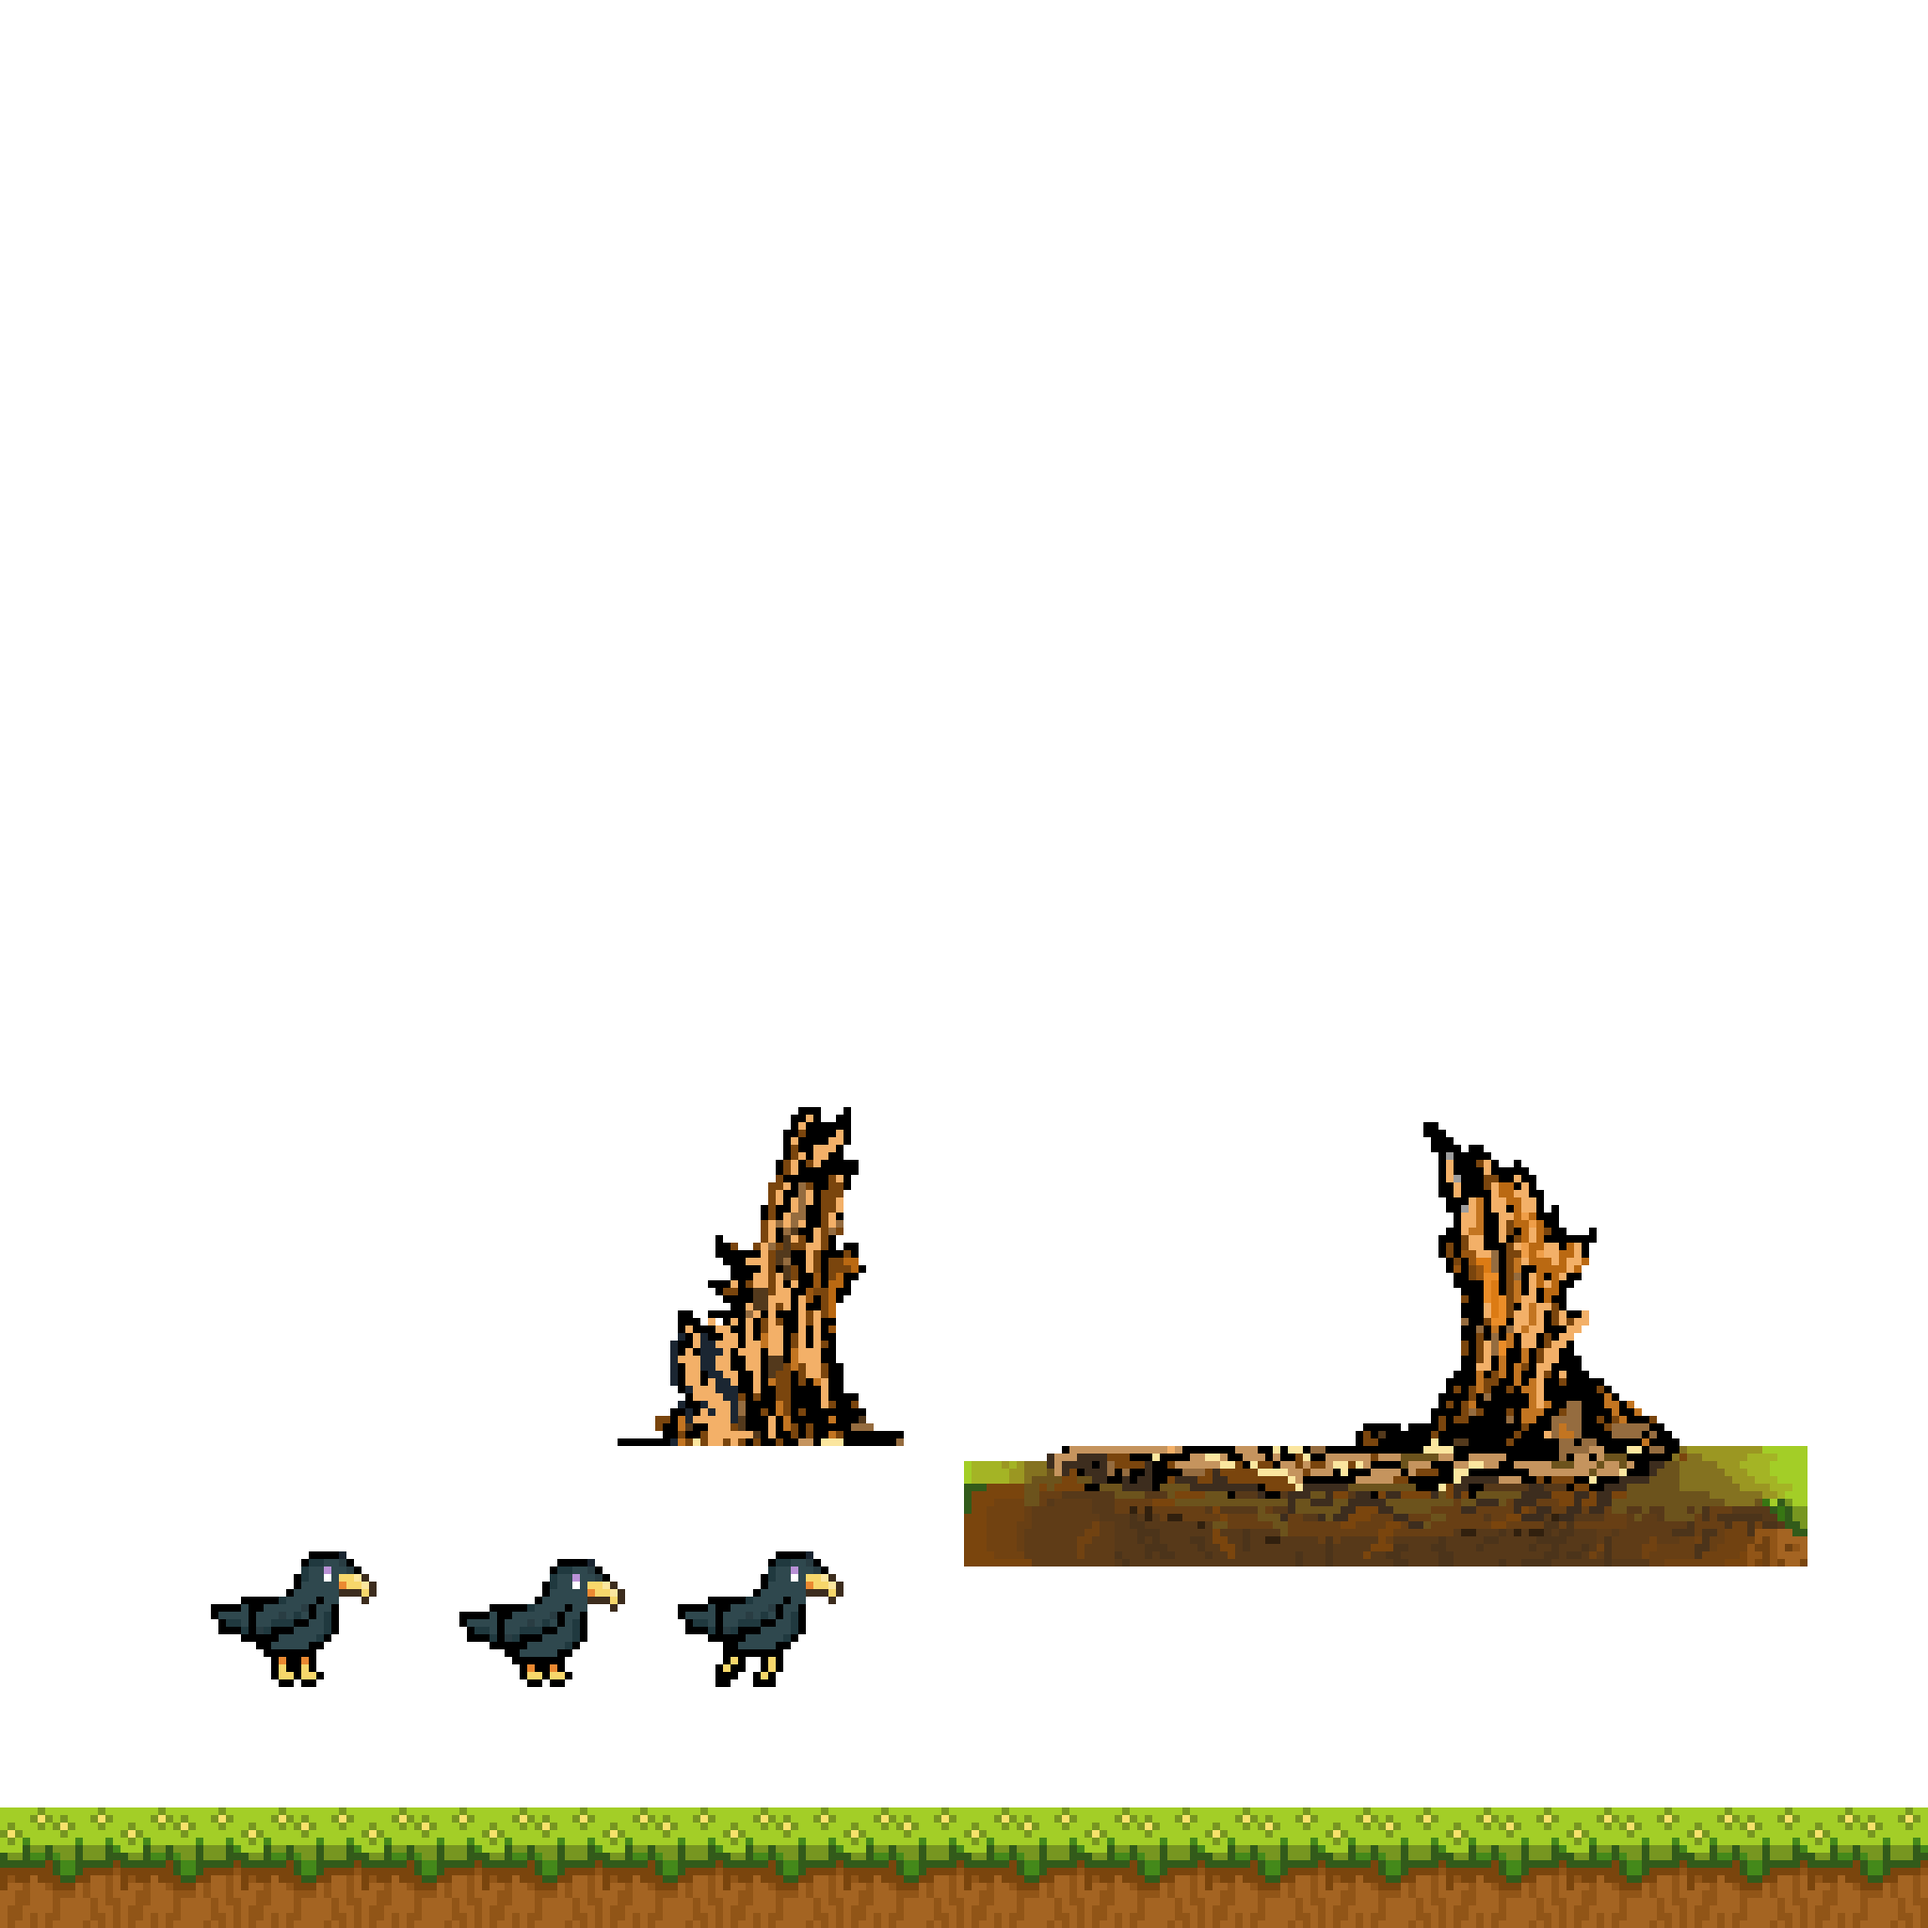
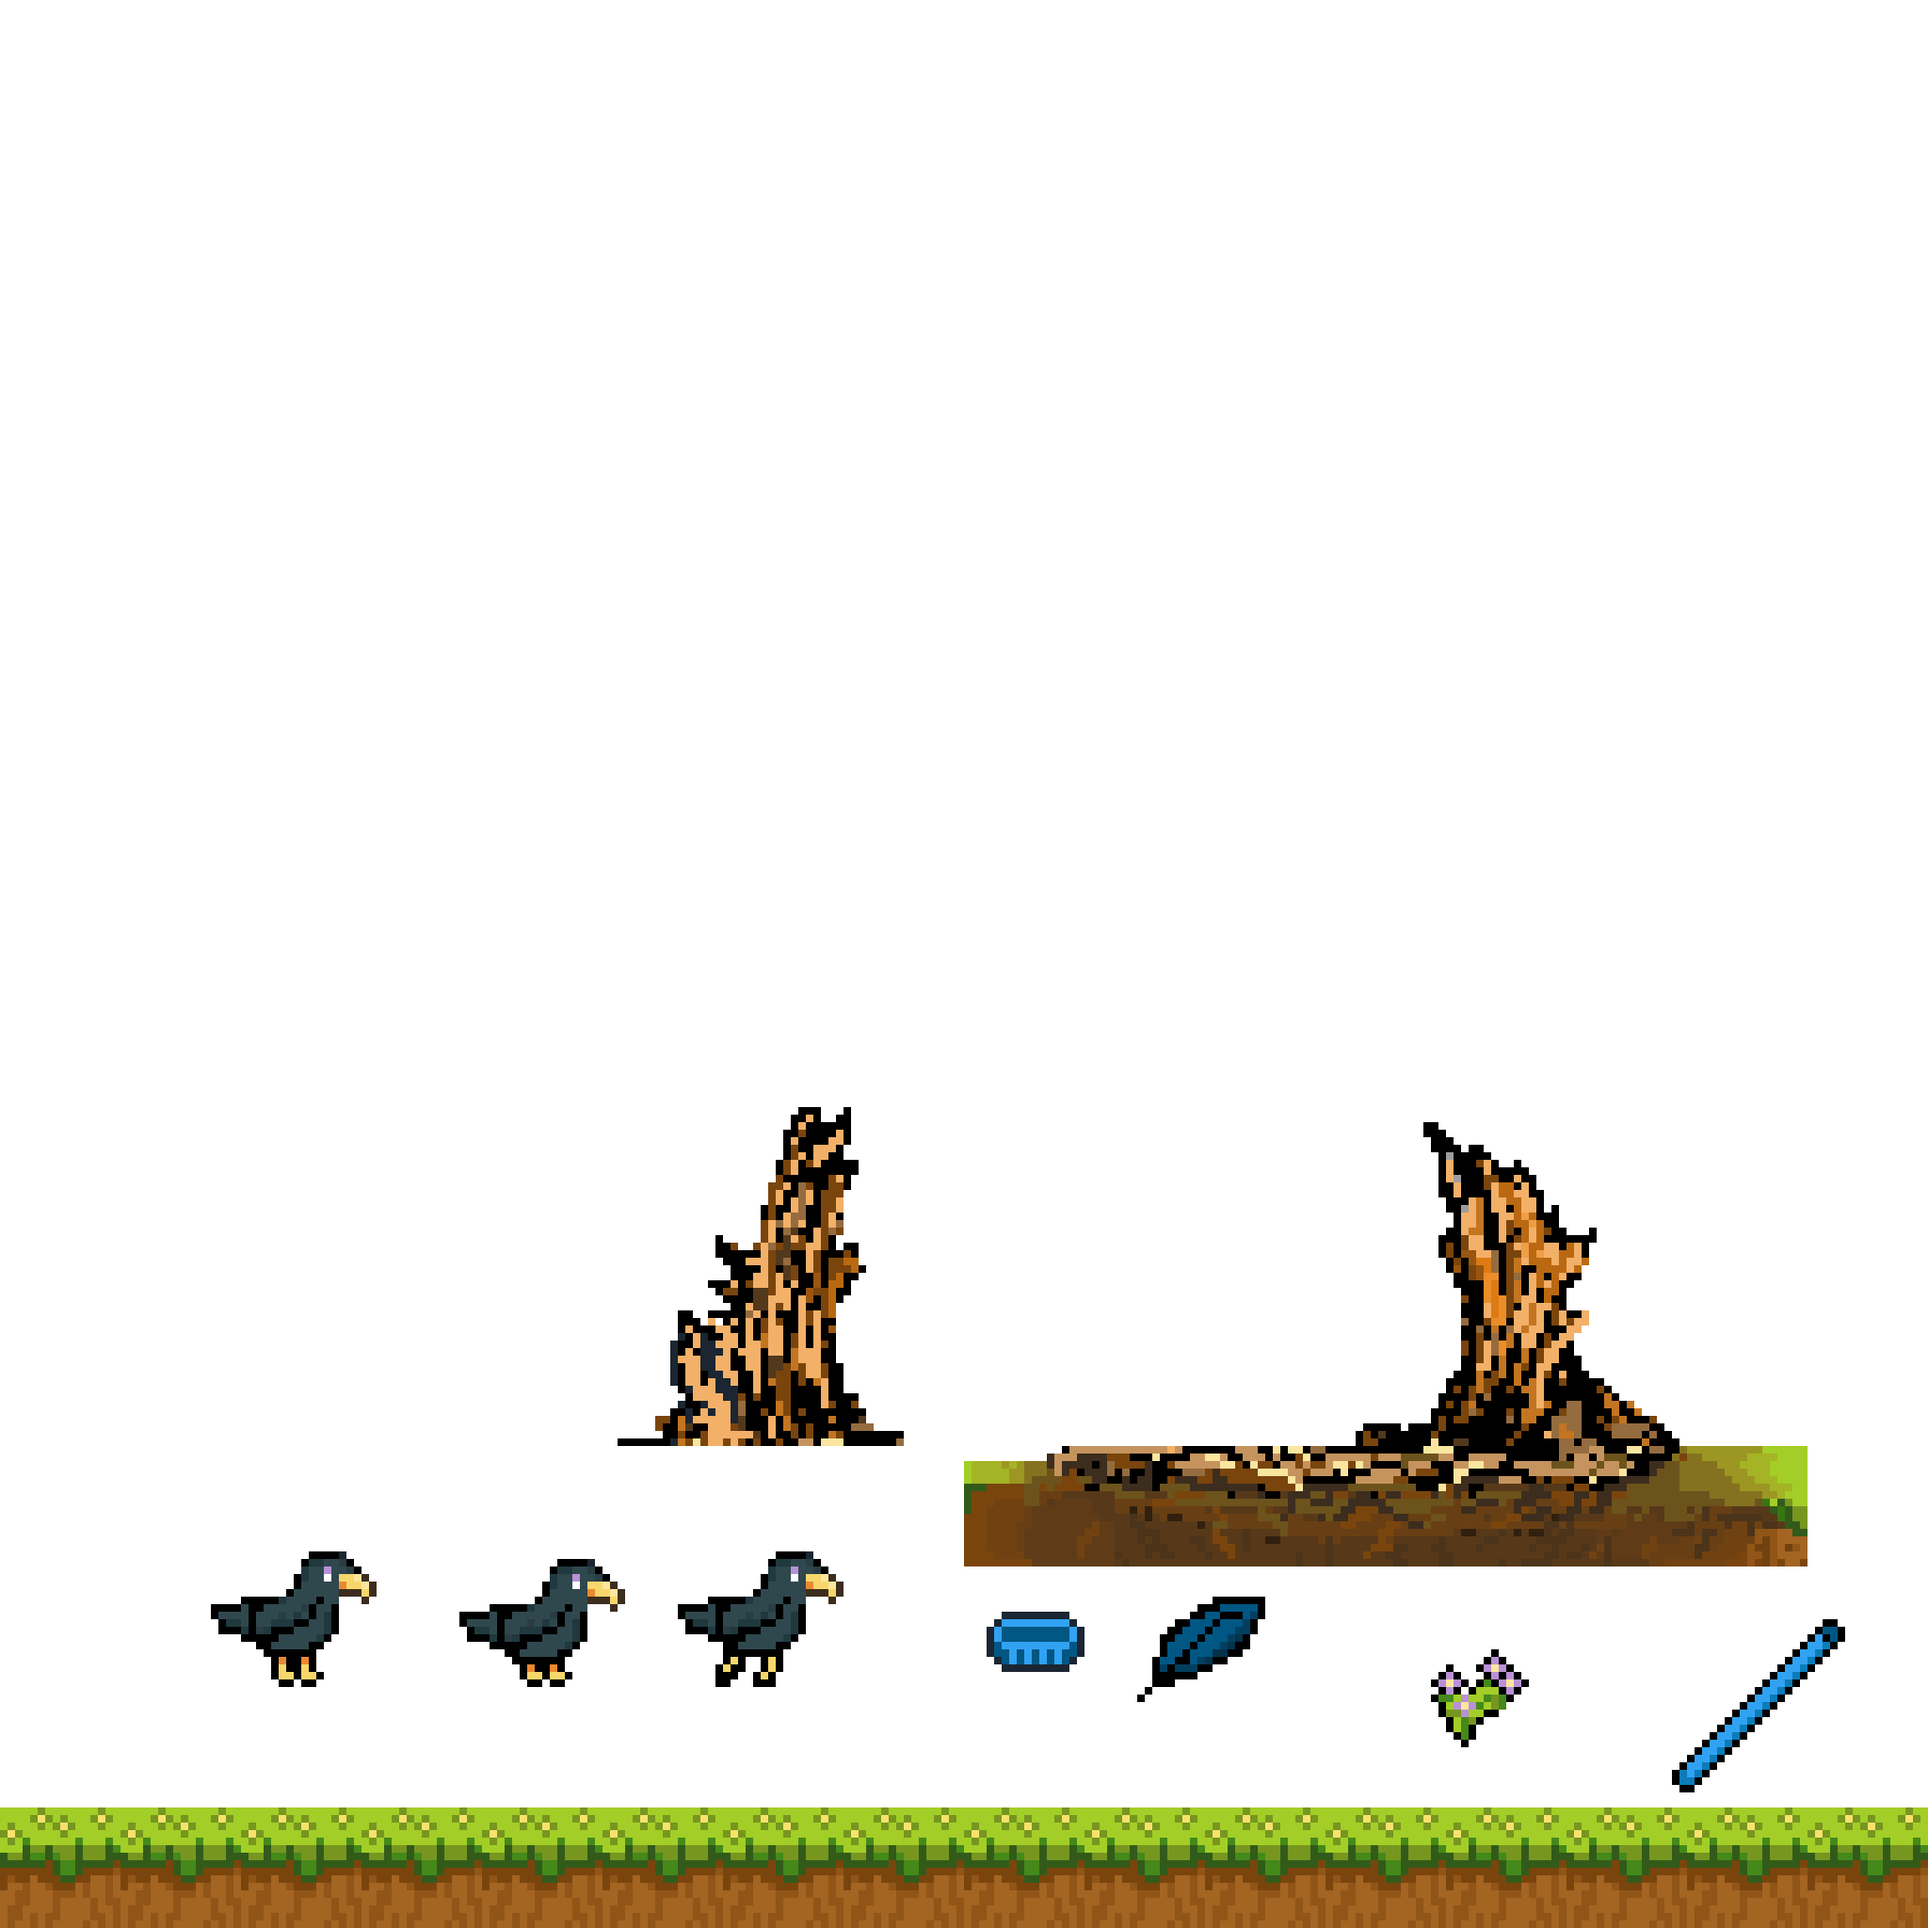
added new sprites and prevents the camera from following you if you're too far. you can still fall off the map though...

diff --git a/Assets/Scripts/CameraFollow.cs b/Assets/Scripts/CameraFollow.cs
@@ -18,6 +18,8 @@ public class CameraFollow : MonoBehaviour
 
     private Rigidbody2D followRigid;
 
+    public bool shouldFollow;
+
     // Start is called before the first frame update
     void Start()
     {
@@ -52,11 +54,18 @@ public class CameraFollow : MonoBehaviour
     }
 
     // Update is called once per frame
+    // fixed update is physics based means it only updates when ya moving ! 
     void FixedUpdate()
     {
-        // position of the object ! 
+        Debug.Log("here I am !");
+
+        // the thing you wanna follow
         Vector2 follow = followObject.transform.position;
 
+        if (followObject.transform.position.x > 13 || followObject.transform.position.x < -27) {
+            shouldFollow = false;
+        }
+        else {shouldFollow = true;}
         // distance between our object and center of the x - axis
         // vector2.right is shorthand for writing Vector2(1, 0) multiplied by the y of the camera's location
         // basically ur scaling it up or down
@@ -67,22 +76,28 @@ public class CameraFollow : MonoBehaviour
 
         // if the distance between our object and the center x axis is GREATER than the threshold that we have defined
         // u better change the position of camera to our object!!
-        Vector3 newPosition = transform.position;
-        if (Mathf.Abs(xDifference) >= threshold.x) {
-            newPosition.x = follow.x;
-        }
+
+        if (shouldFollow) {
+            Vector3 newPosition = transform.position;
+            if ((Mathf.Abs(xDifference) >= threshold.x))
+            {
+                newPosition.x = follow.x;
+            }
 
 
-        if (Mathf.Abs(yDifference) >= threshold.y) {
-            newPosition.y = follow.y;
-        }
+            if (Mathf.Abs(yDifference) >= threshold.y)
+            {
+                newPosition.y = follow.y;
+            }
 
-        if(followObject.GetComponent<Inventory>().value == 15) {
-            newPosition.z -= 1;
-            Debug.Log(newPosition);
+            if (followObject.GetComponent<Inventory>().value == 15)
+            {
+                newPosition.z -= 1;
+                Debug.Log(newPosition);
+            }
+            float moveSpeed = followRigid.velocity.magnitude > speed ? followRigid.velocity.magnitude : speed;
+            transform.position = Vector3.MoveTowards(transform.position, newPosition, moveSpeed * Time.deltaTime);
         }
-        float moveSpeed = followRigid.velocity.magnitude > speed ? followRigid.velocity.magnitude : speed;
-        transform.position = Vector3.MoveTowards(transform.position, newPosition, moveSpeed*Time.deltaTime);
 
     }
 }
